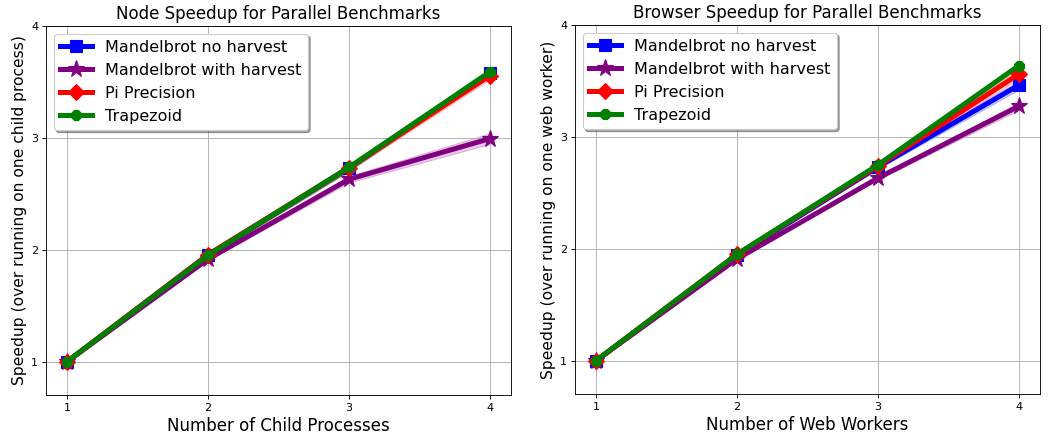
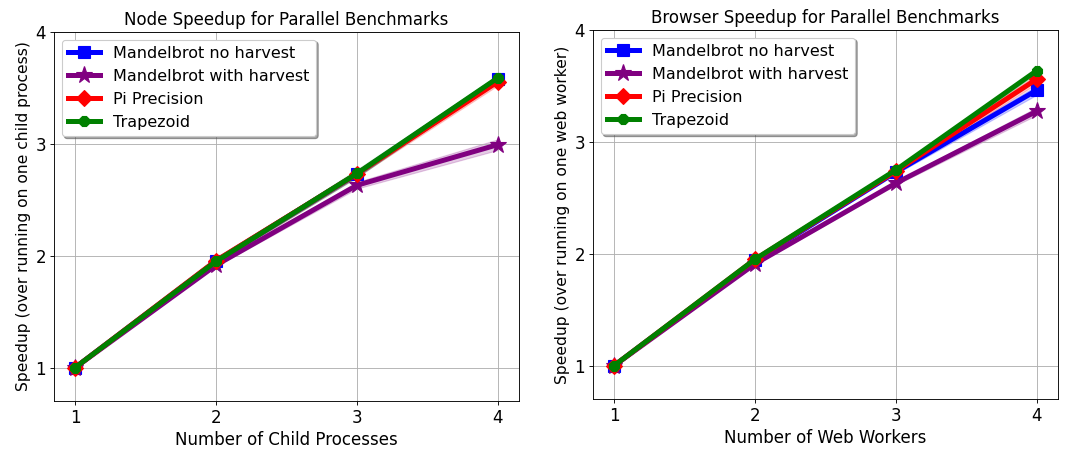
Updated diagrams

Changed region(s): [[0.0, 0.0, 0.9962, 1.0], [0.0623, 0.875, 0.4981, 1.0]]

diff --git a/benchmarks/visualisations/linkcomparision.py b/benchmarks/visualisations/linkcomparision.py
@@ -1,4 +1,5 @@
 import matplotlib.pyplot as plt
+from matplotlib.pyplot import figure
 import numpy as np
 from scipy.stats import sem
 
@@ -70,22 +71,24 @@ Ygirls = [10, 20]
 Zboys = [20, 30]
 
 X_axis = np.arange(len(keys))
+figure(figsize=(8, 6), dpi=80)
 
 plt.bar(X_axis - 0.15, [data[0], data[4]], 0.1, hatch='//',
-        label='Cluster', yerr=[errors[0], errors[4]])
+        label='Cluster', yerr=[errors[0], errors[4]], capsize=4)
 plt.bar(X_axis - 0.05, [data[1], data[5]], 0.1, hatch='\\\\',
-        label='Node WebSocket', yerr=[errors[1], errors[5]])
+        label='Node WebSocket', yerr=[errors[1], errors[5]], capsize=4)
 plt.bar(X_axis + 0.05, [data[2], data[6]], 0.1, hatch='xx',
-        label='Web Worker', yerr=[errors[2], errors[6]])
+        label='Web Worker', yerr=[errors[2], errors[6]], capsize=4)
 plt.bar(X_axis + 0.15, [data[3], data[7]], 0.1, hatch='++',
-        label='Browser WebSocket', yerr=[errors[3], errors[7]])
+        label='Browser WebSocket', yerr=[errors[3], errors[7]], capsize=4)
 
 plt.rcParams['hatch.linewidth'] = 0.5
-plt.xticks(X_axis, keys)
-plt.title('Comparision of Communication Links')
-plt.xlabel('Benchmark')
-plt.ylabel('Time to execute benchmark (ms)')
-plt.legend()
+plt.xticks(X_axis, keys, fontsize=13)
+plt.yticks(fontsize=13)
+plt.title('Comparision of Communication Links', fontsize=16)
+plt.xlabel('Benchmark', fontsize=14)
+plt.ylabel('Time to execute benchmark (ms)', fontsize=14)
+plt.legend(fontsize=14)
 plt.grid()
 
 plt.savefig('link.png')

diff --git a/benchmarks/visualisations/savinacomparision.py b/benchmarks/visualisations/savinacomparision.py
@@ -34,21 +34,22 @@ def compare(directory, title, output):
 
     averages = [np.average(data[key]) for key in data.keys()]
     errors = [sem(data[key]) for key in data.keys()]
-    figure(figsize=(8, 10.5), dpi=80)
+    figure(figsize=(10, 10.5), dpi=80)
     plt.bar(data.keys(), averages, yerr=errors,
-            hatch='//', color='steelblue', label='JVM')
+            hatch='//', color='steelblue', label='JVM', capsize=4)
     colour = [averages[0], averages[1]]
     colour.extend(np.zeros(len(averages)-len(colour)))
-    plt.bar(data.keys(), colour, hatch='\\\\', color='green', label='JS FYP')
+    plt.bar(data.keys(), colour, hatch='\\\\', color='green', label='JS FYP', capsize=4)
     if 'NACT' in data.keys():
         colour = [0, 0, averages[2], 0, 0, 0, 0, 0, 0, 0, 0]
         plt.bar(data.keys(), colour, color='darkorange',
                 hatch='xx', label='JS Other')
     plt.rcParams['hatch.linewidth'] = 0.5
-    plt.xticks(np.arange(len(averages)), list(data.keys()), rotation=45)
-    plt.title(title, fontsize=15)
-    plt.xlabel('Environment', fontsize=16)
-    plt.ylabel('Time to execute (ms)', fontsize=16)
+    plt.xticks(np.arange(len(averages)), list(data.keys()), rotation=45, fontsize=14)
+    plt.yticks(fontsize=18)
+    plt.title(title, fontsize=17)
+    plt.xlabel('Environment', fontsize=17)
+    plt.ylabel('Time to execute (ms)', fontsize=19)
     plt.grid()
     plt.legend(shadow=True, prop={'size': 18})
     plt.savefig(output)

diff --git a/benchmarks/visualisations/speedupgraph.py b/benchmarks/visualisations/speedupgraph.py
@@ -112,8 +112,8 @@ plt.ylabel('Speedup (over running on one child process)', fontsize=14)
 ax = plt.gca()
 ax.set_ylim([0.7, 4])
 plt.grid()
-plt.xticks(keys, keys)
-plt.yticks(keys, keys)
+plt.xticks(keys, keys, fontsize=15)
+plt.yticks(keys, keys, fontsize=15)
 plt.savefig('node_speedup.png')
 
 
@@ -251,8 +251,8 @@ plt.ylabel('Speedup (over running on one web worker)', fontsize=14)
 ax = plt.gca()
 ax.set_ylim([0.7, 4])
 plt.grid()
-plt.xticks(keys, keys)
-plt.yticks(keys, keys)
+plt.xticks(keys, keys, fontsize=15)
+plt.yticks(keys, keys, fontsize=15)
 plt.savefig('browser_speedup.png')
 
 #############
@@ -323,13 +323,12 @@ plt.fill_between(keys, np.array(mandelbrot_browser_speedup) - np.array(mandelbro
 
 plt.legend(loc='lower right', shadow=True, fontsize='x-large')
 plt.locator_params(axis="x", integer=True, tight=True)
-plt.title(
-    'Distributed Speedup for Mandelbrot Benchmark without Harvesting', fontsize=13)
+plt.title('Distributed Speedup for Mandelbrot Benchmark without Harvesting', fontsize=12)
 plt.xlabel('Number of Workers', fontsize=14)
-plt.ylabel('Speedup (over running on one worker)', fontsize=14)
+plt.ylabel('Speedup (over running on one worker)', fontsize=15)
 plt.grid()
 ax = plt.gca()
 ax.set_ylim([0, 10])
-plt.xticks(keys, keys)
-plt.yticks(keys, keys)
+plt.xticks(keys, keys, fontsize=15)
+plt.yticks(keys, keys, fontsize=15)
 plt.savefig('distributed_memory_speedup.png')

diff --git a/benchmarks/visualisations/micro.py b/benchmarks/visualisations/micro.py
@@ -1,7 +1,6 @@
 import matplotlib.pyplot as plt
 from matplotlib.pyplot import figure
 import numpy as np
-import os
 from scipy.stats import sem
 
 # Declare vars
@@ -46,18 +45,18 @@ browser_errors = [sem(browser_data[key]) for key in browser_data.keys()]
 
 X_axis = np.arange(len(node_averages))
 width = 0.2
-figure(figsize=(8.5, 9.8), dpi=80)
+figure(figsize=(8.5, 10), dpi=80)
 
 plt.bar(X_axis-0.1, node_averages, width, color='green',
-        hatch='//', label='Node', yerr=node_errors)
+        hatch='//', label='Node', yerr=node_errors, capsize=4)
 plt.bar(X_axis+0.1, browser_averages, width, color='steelblue',
-        hatch='\\\\', label='Browser', yerr=browser_errors)
+        hatch='\\\\', label='Browser', yerr=browser_errors, capsize=4)
 
-plt.rcParams['hatch.linewidth'] = 0.5
-plt.xticks(X_axis, list(node_data.keys()), rotation=45)
+plt.xticks(X_axis, list(node_data.keys()), rotation=45, fontsize=14)
+plt.yticks(fontsize=15)
 plt.title('Micro-Benchmarks Node.js and Browser Comparision', fontsize=16)
 plt.xlabel('Benchmark', fontsize=16)
-plt.ylabel('Time to execute (ms)', fontsize=16)
+plt.ylabel('Time to execute (ms)', fontsize=17)
 plt.grid()
 plt.legend(prop={'size': 16})
 plt.savefig('micro.png')

diff --git a/benchmarks/visualisations/slowdowngraph.py b/benchmarks/visualisations/slowdowngraph.py
@@ -53,7 +53,8 @@ plt.locator_params(axis="x", integer=True, tight=True)
 plt.title('Scaling Node Micro Benchmarks', fontsize=15)
 plt.xlabel('Load multiplier', fontsize=15)
 plt.ylabel('Slowdown (over running 1x load)', fontsize=15)
-plt.xticks(np.arange(1, 10), np.arange(1, 10))
+plt.yticks(fontsize=15)
+plt.xticks(np.arange(1, 11), np.arange(1, 11), fontsize=15)
 plt.grid()
 plt.savefig('node_scaling.png')
 
@@ -104,6 +105,7 @@ plt.locator_params(axis="x", integer=True, tight=True)
 plt.title('Scaling Browser Micro Benchmarks', fontsize=15)
 plt.xlabel('Load multiplier', fontsize=15)
 plt.ylabel('Slowdown (over running 1x load)', fontsize=15)
-plt.xticks(np.arange(1, 10), np.arange(1, 10))
+plt.yticks(fontsize=15)
+plt.xticks(np.arange(1, 11), np.arange(1, 11), fontsize=15)
 plt.grid()
 plt.savefig('browser_scaling.png')
